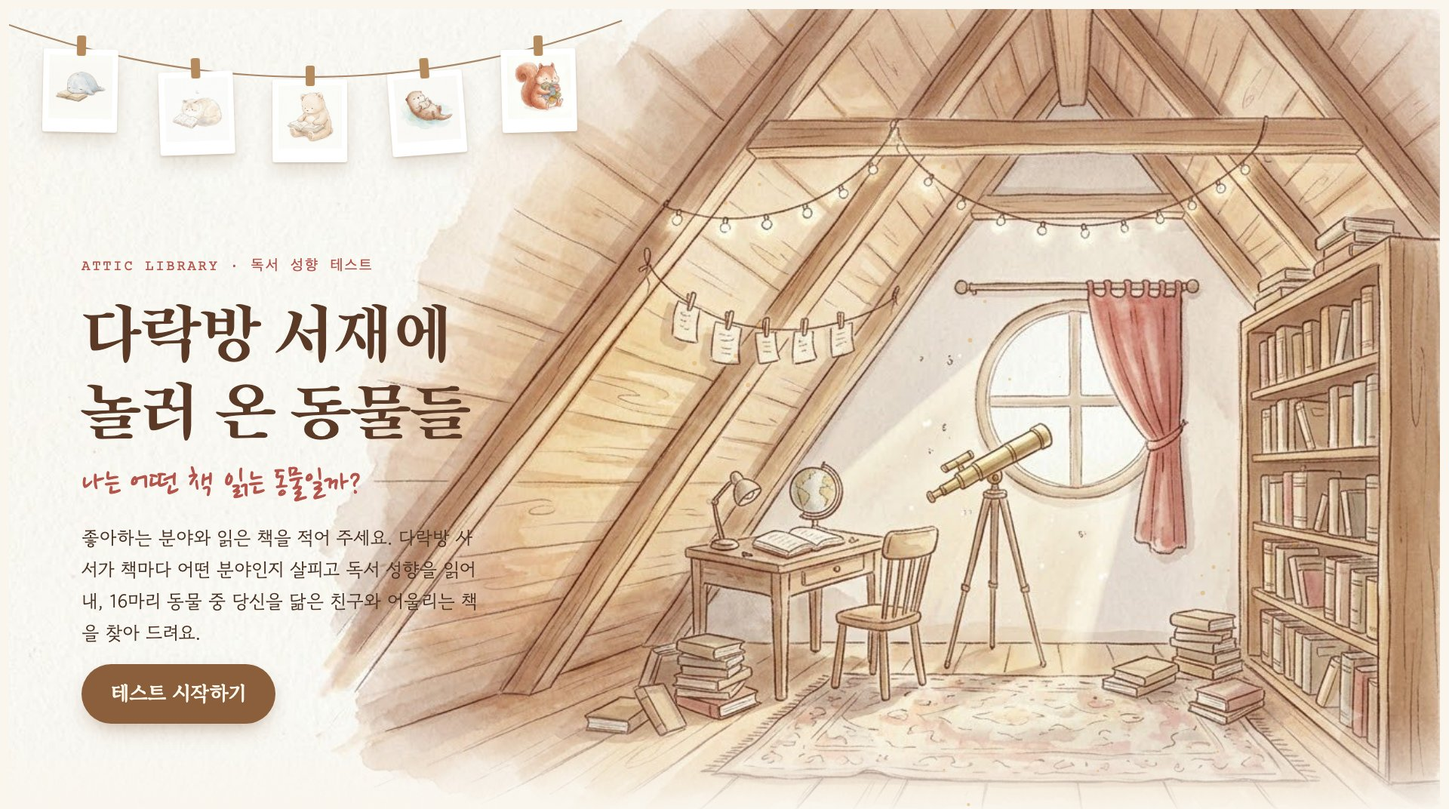
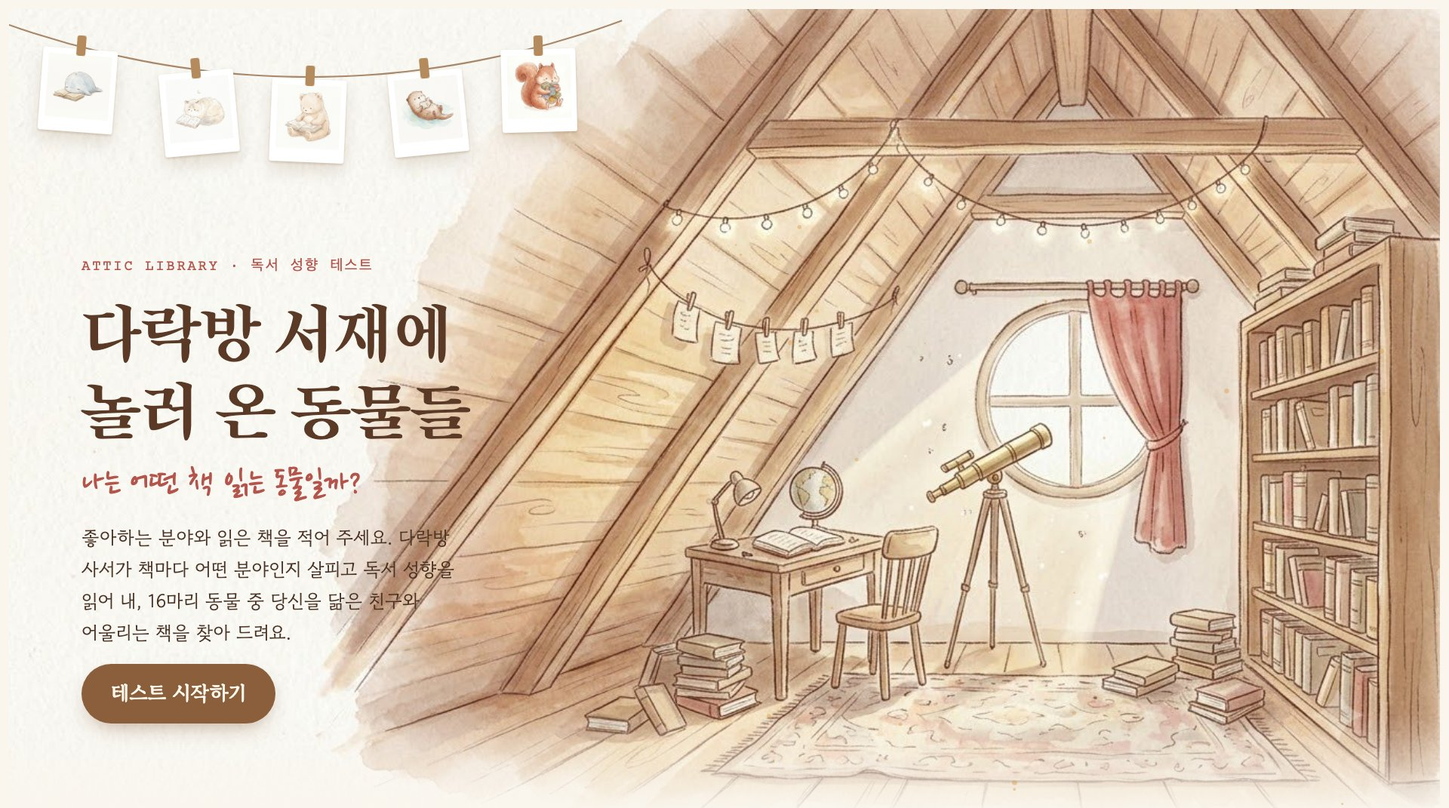
Update the deck for the shelf and the consultation room
Add slides for the neighbors' bookshelf (reads the live Google Sheet when
presented) and for the two entrances: the free site and the Claude
reading consultation room. Refresh the screen captures, the flow diagram,
the architecture diagram, and the timeline, plan, limits and closing text.

diff --git a/slides/index.html b/slides/index.html
@@ -122,19 +122,20 @@
 <!-- 7 이용 흐름 -->
 <section class="slide" data-anim="flow">
   <p class="eyebrow">이용 흐름</p>
-  <h2>세 가지를 적으면, 여섯 가지를 돌려받습니다</h2>
+  <h2>세 가지를 적으면, 일곱 가지를 돌려받습니다</h2>
   <svg class="flow" viewBox="0 0 1664 640" aria-label="입력 3가지가 사서 분석과 점수 계산을 거쳐 결과 6가지가 되는 흐름도">
     <g class="links">
       <path d="M330 110 C420 110 420 320 520 320"/>
       <path d="M330 320 L520 320"/>
       <path d="M330 530 C420 530 420 320 520 320"/>
       <path d="M820 320 L900 320"/>
-      <path d="M1200 320 C1260 320 1260 60 1320 60"/>
-      <path d="M1200 320 C1260 320 1260 164 1320 164"/>
-      <path d="M1200 320 C1260 320 1260 268 1320 268"/>
-      <path d="M1200 320 C1260 320 1260 372 1320 372"/>
-      <path d="M1200 320 C1260 320 1260 476 1320 476"/>
-      <path d="M1200 320 C1260 320 1260 580 1320 580"/>
+      <path d="M1200 320 C1260 320 1260 56 1320 56"/>
+      <path d="M1200 320 C1260 320 1260 144 1320 144"/>
+      <path d="M1200 320 C1260 320 1260 232 1320 232"/>
+      <path d="M1200 320 C1260 320 1260 320 1320 320"/>
+      <path d="M1200 320 C1260 320 1260 408 1320 408"/>
+      <path d="M1200 320 C1260 320 1260 496 1320 496"/>
+      <path d="M1200 320 C1260 320 1260 584 1320 584"/>
     </g>
   </svg>
   <div class="flow-boxes">
@@ -143,12 +144,13 @@
     <div class="fb in" style="left:0;top:530px">읽는 습관<small>질문 7개</small></div>
     <div class="fb core" style="left:520px;top:320px">Claude 사서<small>책 찾기 · 분야 · 성향</small></div>
     <div class="fb core" style="left:900px;top:320px">4축 점수 계산<small>16유형 중 하나</small></div>
-    <div class="fb out" style="left:1320px;top:60px">동물 카드</div>
-    <div class="fb out" style="left:1320px;top:164px">성향 분포</div>
-    <div class="fb out" style="left:1320px;top:268px">내 책 목록카드</div>
-    <div class="fb out" style="left:1320px;top:372px">맞춤 추천 4권</div>
-    <div class="fb out" style="left:1320px;top:476px">이웃 친구 2마리</div>
-    <div class="fb out" style="left:1320px;top:580px">행운의 독서템</div>
+    <div class="fb out" style="left:1320px;top:56px">동물 카드</div>
+    <div class="fb out" style="left:1320px;top:144px">성향 분포</div>
+    <div class="fb out" style="left:1320px;top:232px">내 책 목록카드</div>
+    <div class="fb out" style="left:1320px;top:320px">맞춤 추천</div>
+    <div class="fb out" style="left:1320px;top:408px">이웃 친구 2마리</div>
+    <div class="fb out new" style="left:1320px;top:496px">이웃들의 책장</div>
+    <div class="fb out" style="left:1320px;top:584px">행운의 독서템</div>
   </div>
 </section>
 
@@ -204,23 +206,47 @@
   <div class="shots">
     <div class="shot-main paper">
       <img class="shot on" src="assets/shots/shot-hero.jpg" alt="첫 화면: 수채화 다락방과 제목">
-      <img class="shot" src="assets/shots/shot-form.jpg" alt="입력 화면: 분야 선택과 도서명·저자 입력">
-      <img class="shot" src="assets/shots/shot-result.jpg" alt="결과 화면: 고래 카드와 성향 분포">
-      <img class="shot" src="assets/shots/shot-friends.jpg" alt="결과 화면: 이웃 친구와 행운의 독서템">
+      <img class="shot" src="assets/shots/shot-form.jpg" alt="입력 화면: 도서명과 저자를 나눠 적는 칸">
+      <img class="shot" src="assets/shots/shot-result.jpg" alt="결과 화면: 정밀 분석 안내와 고래 카드">
+      <img class="shot" src="assets/shots/shot-friends.jpg" alt="결과 화면: 취향이 맞는 친구와 정반대 친구">
+      <img class="shot" src="assets/shots/shot-shelf.jpg" alt="결과 화면: 다락방 이웃들의 책장">
+      <img class="shot" src="assets/shots/shot-consult.jpg" alt="다락방 독서 상담실: 별점과 감상을 적는 화면">
     </div>
     <ol class="shot-list">
       <li class="on"><b>첫 화면</b>수채화 다락방, 빨랫줄의 동물들</li>
-      <li><b>입력</b>분야, 도서명·저자, 습관 질문</li>
-      <li><b>결과</b>동물 카드와 네 축의 성향 분포</li>
-      <li><b>더 보기</b>이웃 친구, 맞춤 추천, 행운의 독서템</li>
+      <li><b>입력</b>분야, 도서명·저자, 습관 질문, 책장 동의</li>
+      <li><b>결과</b>동물 카드, 정밀 분석 안내</li>
+      <li><b>이웃 친구</b>잘 맞는 친구와 정반대 친구의 책</li>
+      <li><b>이웃들의 책장</b>같은 동물, 다른 동물이 꽂은 책</li>
+      <li><b>독서 상담실</b>내 Claude로 받는 깊은 상담</li>
     </ol>
+  </div>
+</section>
+
+<!-- 다락방 이웃들의 책장 -->
+<section class="slide" data-anim="shelf">
+  <p class="eyebrow">새 기능 · 이용자 데이터베이스</p>
+  <h2>다락방 이웃들의 책장</h2>
+  <div class="sh-grid">
+    <div class="sh-steps">
+      <div class="sh-step paper"><b>1</b><div><h3>책장에 꽂기</h3><p>테스트를 마칠 때 동의하면 내가 적은 책을 보탭니다.</p></div></div>
+      <div class="sh-step paper"><b>2</b><div><h3>구글 시트에 익명 저장</h3><p>도서명, 저자, 동물 유형만 한 줄씩. 이름과 이메일은 받지 않습니다.</p></div></div>
+      <div class="sh-step paper"><b>3</b><div><h3>동물별 책장으로</h3><p>같은 동물, 다른 동물이 많이 꽂은 책 순서로 책등을 세웁니다.</p></div></div>
+      <p class="sh-note">부적절한 제목은 시트에서 그 줄을 지우면 1분 안에 사라집니다.</p>
+    </div>
+    <div class="sh-live paper pin">
+      <p class="sh-live-h"><span class="live-dot"></span>지금 이 순간의 책장 <small id="shelfStamp">구글 시트에서 불러오는 중</small></p>
+      <p class="sh-count"><b class="sh-num" id="shPeople">–</b>명이 <b class="sh-num" id="shBooks">–</b>권을 꽂았어요</p>
+      <div class="sh-shelves" id="shShelves"></div>
+      <img class="sh-fallback" id="shFallback" src="assets/shots/shot-shelf.jpg" alt="서비스의 이웃 책장 화면" hidden>
+    </div>
   </div>
 </section>
 
 <!-- 13 만든 과정 -->
 <section class="slide" data-anim="timeline">
   <p class="eyebrow">바이브 코딩으로 만든 과정</p>
-  <h2>대화로 만들고, 10번 고쳐 배포했습니다</h2>
+  <h2>처음 76분 동안, 10번 고쳐 배포했습니다</h2>
   <div class="chart-frame line"><img src="assets/charts/timeline.svg" alt="13시 48분 시작부터 15시 3분 v10까지 배포 10번의 타임라인"><i class="wipe"></i></div>
   <div class="row4 kpis">
     <div class="kpi"><b class="count" data-count="76">76</b><span>분, 시작부터 마지막 배포까지</span></div>
@@ -228,7 +254,8 @@
     <div class="kpi"><b class="count" data-count="35">35</b><span>장, Flow로 그린 그림</span></div>
     <div class="kpi"><b class="count" data-count="18">18</b><span>장, 최종 사용한 그림</span></div>
   </div>
-  <p class="tools">도구 · <b>Claude Code</b> 대화로 코딩 · <b>Google Flow</b> 일러스트 · <b>Claude</b> 페이지 속 사서</p>
+  <p class="tools">도구 · <b>Claude Code</b> 대화로 코딩 · <b>Google Flow</b> 일러스트 · <b>Claude</b> 페이지 속 사서 · <b>구글 시트</b> 책장 저장</p>
+  <p class="tools after">그 뒤에 더한 것 · 발표 슬라이드 · 다락방 이웃들의 책장 · 다락방 독서 상담실</p>
 </section>
 
 <!-- 14 외부 데이터 -->
@@ -265,18 +292,40 @@
 <!-- 16 기술 구조 -->
 <section class="slide" data-anim="arch">
   <p class="eyebrow">기술 구조</p>
-  <h2>서버 없는 한 장짜리 웹</h2>
+  <h2>서버 없이, 무료로 굴러가는 구조</h2>
   <svg class="arch-lines" viewBox="0 0 1664 600" aria-hidden="true">
-    <path d="M560 300 L760 300"/><path d="M1100 250 L1300 130"/><path d="M1100 350 L1300 470"/><path d="M330 120 L330 210"/>
+    <path d="M320 265 C370 265 370 110 420 110"/><path d="M320 265 C370 265 370 420 420 420"/>
+    <path d="M860 110 L1000 110"/><path d="M860 420 L1000 420"/><path class="v" d="M640 172 L640 358"/>
   </svg>
+  <p class="arch-lab" style="left:664px;top:588px">상담실 열기</p>
   <div class="arch">
-    <div class="ab user" style="left:120px;top:300px">이용자 브라우저<small>한 장짜리 HTML · 그림 18장 내장</small></div>
-    <div class="ab flowimg" style="left:170px;top:60px">Google Flow<small>동물·다락방 그림</small></div>
-    <div class="ab claude" style="left:760px;top:300px">Claude 사서<small>페이지가 직접 질문 · 책 식별 · 분야 · 성향 · 추천</small></div>
-    <div class="ab local" style="left:1300px;top:130px">내장 도서 71권<small>Claude를 못 쓸 때</small></div>
-    <div class="ab nl" style="left:1300px;top:470px">국립중앙도서관 검색<small>추천 도서 링크</small></div>
+    <div class="ab user" style="left:0;top:265px">이용자<small>휴대폰·컴퓨터 브라우저</small></div>
+    <div class="ab pages" style="left:420px;top:110px">무료 체험 페이지<small>GitHub Pages · 한 장짜리 HTML</small></div>
+    <div class="ab claudepg" style="left:420px;top:420px">다락방 독서 상담실<small>claude.ai · 별점·습관·취향까지 받는 페이지</small></div>
+    <div class="ab sheet" style="left:1000px;top:110px">구글 시트 책장 DB<small>Apps Script 웹 앱 · 익명 저장과 동물별 집계</small></div>
+    <div class="ab claude" style="left:1000px;top:420px">Claude 사서<small>방문자 본인 계정 · 상담 기록과 추천 작성</small></div>
   </div>
-  <div class="chips-row"><span>서버 없음</span><span>데이터베이스 없음</span><span>입력 내용 저장 안 함</span><span>링크 하나로 공유</span></div>
+  <div class="chips-row"><span>별도 서버 없음</span><span>운영비 0원</span><span>이름·이메일 저장 안 함</span><span>추천 도서는 국립중앙도서관 검색으로</span></div>
+</section>
+
+<!-- 두 개의 문 -->
+<section class="slide" data-anim="doors">
+  <p class="eyebrow">서비스 구성</p>
+  <h2>가볍게 들어오는 문, 깊이 들어가는 문</h2>
+  <div class="doors">
+    <div class="door paper pin">
+      <p class="door-tag">문 1 · 누구나</p>
+      <h3>무료 체험 페이지</h3>
+      <ul><li>누구나 로그인 없이 바로</li><li>내장 도서 71권과 분야·습관으로 분석</li><li><b>다락방 이웃들의 책장</b>에 함께 꽂기</li><li>QR 코드로 공유</li></ul>
+    </div>
+    <div class="door-mid"><svg viewBox="0 0 160 80" aria-hidden="true"><path d="M8 40 H140 M122 22 L144 40 L122 58"/></svg><p>더 깊이<br>알고 싶다면</p></div>
+    <div class="door paper pin">
+      <p class="door-tag">문 2 · 내 Claude 계정</p>
+      <h3>다락방 독서 상담실</h3>
+      <ul><li>별점과 감상, 인생 책, 아쉬웠던 책까지</li><li>독서 습관과 문체·분위기 취향을 자세히</li><li>독서 초상, 4축의 근거, 열쇠말, 사서의 편지</li><li>맞춤 추천 5권과 한 달 독서 계획</li></ul>
+    </div>
+  </div>
+  <div class="why paper"><p><b>왜 나눴나요?</b> 일반 웹페이지는 방문자의 Claude 로그인을 쓸 수 없고, Claude 안의 페이지는 외부 저장소에 접속할 수 없습니다. 그래서 모두와 함께 쓰는 체험 페이지와, 나 혼자 깊이 상담받는 페이지로 역할을 나눴습니다. 상담실에 적은 내용은 저장하지 않습니다.</p><p class="next"><b>다음 단계</b> 제작자의 API 키로 상담실과 이웃 책장을 한 페이지에서 잇기 (1회 약 4~140원)</p></div>
 </section>
 
 <!-- 17 서비스 운영 -->
@@ -284,11 +333,11 @@
   <p class="eyebrow">서비스 운영 방안</p>
   <h2>링크 하나에서 도서관 프로그램까지</h2>
   <div class="road">
-    <div class="paper pin stage-c"><p class="hand mid">1단계 · 지금</p><ul><li>링크와 QR 코드로 공유</li><li>학과·도서관 SNS에 결과 문구 공유</li><li>신입생 오리엔테이션 체험 부스</li></ul></div>
+    <div class="paper pin stage-c"><p class="hand mid">1단계 · 지금</p><ul><li>링크와 QR 코드로 공유</li><li>함께 채우는 이웃 책장으로 다시 오게 하기</li><li>신입생 오리엔테이션 체험 부스</li></ul></div>
     <div class="paper pin stage-c"><p class="hand mid">2단계 · 도서관과 함께</p><ul><li>‘내 독서 동물 찾기’ 도서관 행사</li><li>동물별 추천 서가 전시</li><li>같은 동물·반대 동물 독서 모임 짝짓기</li></ul></div>
-    <div class="paper pin stage-c"><p class="hand mid">3단계 · 데이터 연결</p><ul><li>학교 도서관 소장·대출 가능 여부 표시</li><li>도서관 정보나루 대출 데이터로 추천 보강</li><li>익명 유형 통계를 큐레이션에 활용</li></ul></div>
+    <div class="paper pin stage-c"><p class="hand mid">3단계 · 데이터 연결</p><ul><li>학교 도서관 소장·대출 가능 여부 표시</li><li>이웃 책장 통계를 수서·큐레이션에 활용</li><li>상담실과 이웃 책장을 한 페이지로 잇기</li></ul></div>
   </div>
-  <div class="limits"><b>지금의 한계</b> 추천 도서는 Claude의 기억으로 고르므로 실제 소장 확인이 필요합니다 · Claude 분석은 보는 사람의 Claude 계정이 있어야 합니다 · 유형 분포의 치우침 조정</div>
+  <div class="limits"><b>지금의 한계</b> 추천 도서는 Claude의 기억으로 고르므로 실제 소장 확인이 필요합니다 · 독서 상담실은 claude.ai 로그인이 필요합니다 · 체험 페이지는 내장 71권만 알아봅니다 · 유형 분포의 치우침 조정</div>
 </section>
 
 <!-- 18 가치 -->
@@ -296,8 +345,8 @@
   <p class="eyebrow">가치</p>
   <h2>누구에게 어떤 의미가 있을까요</h2>
   <div class="row3">
-    <div class="paper pin card-v"><p class="who-t">이용자</p><h3>나를 알고, 밖을 봅니다</h3><p>내 독서 취향을 한눈에 보고, ‘정반대 친구’의 책으로 늘 보던 목록 밖의 책을 만납니다.</p></div>
-    <div class="paper pin card-v"><p class="who-t">도서관</p><h3>독자 상담을 더 많은 사람에게</h3><p>참여형 독서 프로그램과 동물별 북큐레이션으로 이용자를 서가로 이끕니다.</p></div>
+    <div class="paper pin card-v"><p class="who-t">이용자</p><h3>나를 알고, 밖을 봅니다</h3><p>내 취향을 한눈에 보고, 이웃들의 진짜 책장과 ‘정반대 친구’의 책으로 늘 보던 목록 밖의 책을 만납니다.</p></div>
+    <div class="paper pin card-v"><p class="who-t">도서관</p><h3>독자 상담을 더 많은 사람에게</h3><p>이용자가 직접 채우는 책장이 쌓이며, 동물별 북큐레이션의 근거 데이터가 됩니다.</p></div>
     <div class="paper pin card-v"><p class="who-t">문헌정보학</p><h3>전공을 체험하는 서비스</h3><p>분류, 참고면담, 독자 상담을 누구나 해 볼 수 있는 웹으로 옮겼습니다.</p></div>
   </div>
   <div class="lucky-band"><p class="hand mid">덤으로, 행운의 독서템</p><p><b class="count" data-count="20">20</b> 가지 물건 × <b class="count" data-count="20">20</b> 가지 색·무늬 × <b class="count" data-count="8">8</b> 가지 시간 = <b class="count big" data-count="3200">3,200</b> 가지 조합</p></div>
@@ -310,6 +359,7 @@
     <p class="hand huge">당신의 다락방에는<br>어떤 동물이 놀러 왔나요?</p>
     <p class="lead">지금 바로 해 보세요</p>
     <p class="url" id="siteUrl"></p>
+    <p class="url sub">독서 상담실 · claude.ai/artifact/DmqLE6gvBbLZoa9okZhq62</p>
   </div>
   <figure class="qr paper"><img src="assets/qr.svg" alt="서비스로 가는 QR 코드"><figcaption>QR로 바로 해 보기</figcaption></figure>
   <div class="end-row" id="endRow"></div>

diff --git a/slides/deck.css b/slides/deck.css
@@ -157,9 +157,9 @@ p { margin: 0; }
 .shot-main { height: 700px; padding: 14px; overflow: hidden; }
 .shot { position: absolute; left: 14px; top: 14px; width: calc(100% - 28px); height: calc(100% - 28px); object-fit: contain; object-position: top center; opacity: 0; background: var(--bg); border-radius: 4px; }
 .shot.on { opacity: 1; }
-.shot-list { list-style: none; margin: 0; padding: 0; display: grid; gap: 22px; counter-reset: s; }
-.shot-list li { counter-increment: s; padding: 22px 26px; border-radius: 8px; font-size: 27px; line-height: 1.5; color: var(--muted); border: 2px solid transparent; transition: border-color .3s, background .3s; }
-.shot-list li b { display: block; font-family: var(--display); font-size: 34px; color: var(--ink); }
+.shot-list { list-style: none; margin: 0; padding: 0; display: grid; gap: 8px; counter-reset: s; }
+.shot-list li { counter-increment: s; padding: 10px 22px; border-radius: 8px; font-size: 23px; line-height: 1.35; color: var(--muted); border: 2px solid transparent; transition: border-color .3s, background .3s; }
+.shot-list li b { display: block; font-family: var(--display); font-size: 30px; color: var(--ink); }
 .shot-list li b::before { content: counter(s) ". "; color: var(--rose); font-family: var(--type); }
 .shot-list li.on { background: var(--paper); border-color: var(--gold); }
 
@@ -200,9 +200,9 @@ p { margin: 0; }
 .tag.good { color: var(--leaf); border: 2px solid var(--leaf); }
 
 /* 16 arch */
-.arch-lines { position: absolute; left: 128px; top: 330px; width: 1664px; height: 600px; }
+.arch-lines { position: absolute; left: 128px; top: 300px; width: 1664px; height: 600px; }
 .arch-lines path { fill: none; stroke: var(--wood-lt); stroke-width: 4; stroke-dasharray: 10 10; }
-.arch { position: absolute; left: 128px; top: 330px; width: 1664px; height: 600px; }
+.arch { position: absolute; left: 128px; top: 300px; width: 1664px; height: 600px; }
 .ab { position: absolute; transform: translateY(-50%); width: 440px; padding: 24px 28px; border-radius: 12px; background: var(--paper); box-shadow: 0 16px 28px -18px var(--shadow), 0 1px 3px rgba(120, 80, 40, .14);
   font: 700 34px var(--display); }
 .ab small { display: block; font: 24px var(--body); color: var(--muted); margin-top: 6px; line-height: 1.45; }
@@ -282,3 +282,59 @@ p { margin: 0; }
 .g16 img { width: 100%; flex: 1; min-height: 0; object-fit: contain; display: block; }
 .g16 figcaption { font-family: var(--hand); font-size: 34px; line-height: 1; padding: 6px 0 8px; color: var(--ink); white-space: nowrap; display: flex; align-items: baseline; gap: 8px; }
 .g16 small { font: 16px var(--type); letter-spacing: .1em; color: var(--muted); }
+
+/* revision: flow highlight, timeline note */
+.fb.out { font-size: 26px; padding: 10px 22px; }
+.fb.out.new { border-left-color: var(--gold); background: #FFF6E3; }
+.tools.after { margin-top: 10px; color: var(--rose); }
+
+/* neighbors' shelf slide */
+.sh-grid { display: grid; grid-template-columns: 640px 1fr; gap: 48px; align-items: start; }
+.sh-steps { display: grid; gap: 20px; }
+.sh-step { display: grid; grid-template-columns: 64px 1fr; gap: 22px; align-items: center; padding: 24px 28px; }
+.sh-step > b { width: 64px; height: 64px; border-radius: 50%; display: grid; place-items: center; background: var(--wood); color: #FFF8EC; font: 700 32px var(--display); }
+.sh-step h3 { font-size: 34px; }
+.sh-step p { font-size: 26px; line-height: 1.5; color: var(--muted); margin-top: 4px; }
+.sh-note { font-size: 24px; color: var(--muted); padding-left: 8px; }
+.sh-live { padding: 54px 36px 30px; min-height: 640px; display: flex; flex-direction: column; gap: 16px; }
+.sh-live-h { display: flex; align-items: center; gap: 12px; font: 700 26px var(--display); }
+.sh-live-h small { font: 20px var(--type); color: var(--muted); margin-left: auto; }
+.live-dot { width: 14px; height: 14px; border-radius: 50%; background: #D9534F; box-shadow: 0 0 0 0 rgba(217, 83, 79, .5); }
+.sh-count { font-size: 30px; color: var(--muted); }
+.sh-num { font: 700 64px var(--display); color: var(--wood); margin: 0 6px; font-variant-numeric: tabular-nums; }
+.sh-shelves { display: grid; gap: 18px; }
+.mini-shelf { display: grid; grid-template-columns: 96px 1fr; gap: 18px; align-items: end; }
+.mini-shelf .who { display: flex; flex-direction: column; align-items: center; gap: 4px; font-family: var(--hand); font-size: 24px; line-height: 1; text-align: center; }
+.mini-shelf .who img { width: 80px; height: 80px; border-radius: 50%; object-fit: cover; background: #fff; box-shadow: 0 6px 12px -6px var(--shadow); }
+.mini-shelf .row { display: flex; align-items: flex-end; gap: 6px; height: 150px; border-bottom: 12px solid #A8794F; padding: 0 8px; overflow: hidden; }
+.dspine { flex: none; width: 46px; border-radius: 3px 3px 0 0; color: #FFF8EC; display: flex; flex-direction: column; align-items: center; padding: 8px 2px 6px; gap: 4px; transform-origin: bottom center;
+  box-shadow: inset -4px 0 0 rgba(0, 0, 0, .12), inset 2px 0 0 rgba(255, 255, 255, .18); overflow: hidden; }
+.dspine i { font: 700 14px var(--type); font-style: normal; background: rgba(255, 248, 236, .92); color: var(--ink); border-radius: 999px; padding: 0 6px; }
+.dspine span { writing-mode: vertical-rl; font: 700 18px/1.1 var(--display); overflow: hidden; flex: 1; min-height: 0; }
+.sh-fallback { width: 100%; border-radius: 4px; }
+
+/* two doors slide */
+.doors { display: grid; grid-template-columns: 1fr 200px 1fr; gap: 24px; align-items: center; }
+.door { padding: 56px 40px 34px; }
+.door-tag { font: 700 24px var(--type); letter-spacing: .08em; color: var(--rose); }
+.door h3 { font-size: 42px; margin: 8px 0 18px; }
+.door ul { margin: 0; padding-left: 30px; display: grid; gap: 10px; font-size: 29px; line-height: 1.45; }
+.door li::marker { color: var(--gold); }
+.door-mid { text-align: center; }
+.door-mid svg { width: 160px; height: 80px; }
+.door-mid path { fill: none; stroke: var(--wood-lt); stroke-width: 6; stroke-linecap: round; stroke-linejoin: round; }
+.door-mid p { font-family: var(--hand); font-size: 32px; color: var(--rose); line-height: 1.15; }
+.why { margin-top: 40px; padding: 26px 34px; display: grid; gap: 10px; font-size: 27px; line-height: 1.55; color: var(--muted); }
+.why b { color: var(--ink); margin-right: 8px; }
+.why .next b { color: var(--rose); }
+
+/* architecture revision */
+.ab { width: 440px; }
+.ab.user { width: 320px; border-top: 8px solid var(--gold); }
+.ab.pages { border-top: 8px solid var(--leaf); }
+.ab.claudepg { border-top: 8px solid var(--blue); }
+.ab.sheet { border-top: 8px solid #3E8E5A; }
+.ab.claude { width: 440px; }
+.arch-lines path.v { stroke: var(--rose); }
+.arch-lab { position: absolute; z-index: 2; font-family: var(--hand); font-size: 30px; color: var(--rose); background: var(--bg); padding: 0 6px; }
+.url.sub { font-size: 24px; color: var(--muted); }

diff --git a/slides/deck.js b/slides/deck.js
@@ -39,6 +39,43 @@
     motes.appendChild(d);
   }
 
+  // ---------- live neighbors' shelf (real data from the Google Sheet) ----------
+  var SHELF_URL = 'https://script.google.com/macros/s/AKfycbzLpXGOcfBpaXwhViI9_y3U59CfElvhccQbQa8CuvkFa3bhlubiuEY7GSo5jcVDklsf/exec';
+  var NAMES = {}; TYPES.forEach(function (t) { NAMES[t[0]] = t[1]; });
+  var SPC = ['#C98A7E', '#8FA37A', '#D9B074', '#8AA1B4', '#B49A80', '#CFA0A6'];
+  var deckShelf = null, deckShelfFailed = false;
+  function escH(x) { return String(x).replace(/[&<>"']/g, function (m) { return { '&': '&amp;', '<': '&lt;', '>': '&gt;', '"': '&quot;', "'": '&#39;' }[m]; }); }
+  function drawDeckShelf(s, animate) {
+    if (!s) s = document.querySelector('[data-anim="shelf"]');
+    var box = document.getElementById('shShelves'), fb = document.getElementById('shFallback'), stamp = document.getElementById('shelfStamp');
+    if (!deckShelf) { if (deckShelfFailed) { fb.hidden = false; stamp.textContent = '연결이 안 되어 서비스 화면으로 대신 보여 드려요'; } return; }
+    var d = deckShelf, codes = Object.keys(d.shelves).sort(function (a, b) {
+      var n = function (c) { return d.shelves[c].reduce(function (x, y) { return x + y.n; }, 0); }; return n(b) - n(a);
+    }).slice(0, 3);
+    var t = new Date(); stamp.textContent = (t.getMonth() + 1) + '월 ' + t.getDate() + '일 ' + t.getHours() + ':' + String(t.getMinutes()).padStart(2, '0') + ' 기준';
+    document.getElementById('shPeople').textContent = d.people;
+    document.getElementById('shBooks').textContent = d.books;
+    box.innerHTML = codes.length ? codes.map(function (c) {
+      var list = d.shelves[c].slice(0, 9), max = list[0].n;
+      return '<div class="mini-shelf"><div class="who"><img src="assets/img/' + c + '.jpg" alt="">' + escH(NAMES[c] || c).split(' ').slice(-1)[0] + '</div><div class="row">' +
+        list.map(function (b, i) { return '<div class="dspine" style="height:' + (96 + Math.round(44 * b.n / max)) + 'px;background:' + SPC[i % 6] + '" title="' + escH(b.t) + '"><i>' + b.n + '</i><span>' + escH(b.t) + '</span></div>'; }).join('') + '</div></div>';
+    }).join('') : '<p class="sh-count">아직 비어 있어요. 오늘 첫 책을 꽂아 주세요.</p>';
+    if (animate && A) {
+      run(A({ targets: box.querySelectorAll('.dspine'), scaleY: [0, 1], opacity: [0, 1], duration: 700, delay: A.stagger(60, { start: 900 }), easing: 'easeOutBack' }));
+      ['shPeople', 'shBooks'].forEach(function (id) {
+        var el = document.getElementById(id), end = Number(el.textContent) || 0, o = { v: 0 };
+        run(A({ targets: o, v: end, duration: 1200, delay: 800, easing: 'easeOutExpo', update: function () { el.textContent = Math.round(o.v); } }));
+      });
+    }
+  }
+  var shelfReq = (window.fetch ? fetch(SHELF_URL) : Promise.reject()).then(function (r) { return r.json(); }).then(function (d) {
+    if (!d || !d.ok) throw 0; deckShelf = d;
+  }).catch(function () { deckShelfFailed = true; }).then(function () {
+    var s = document.querySelector('[data-anim="shelf"]');
+    if (s && s.classList.contains('on')) drawDeckShelf(s, !STATIC); else drawDeckShelf(s, false);
+  });
+  setTimeout(function () { if (!deckShelf && !deckShelfFailed) { deckShelfFailed = true; drawDeckShelf(null, false); } }, 8000);
+
   // ---------- scaling ----------
   function fit() {
     var s = Math.min(window.innerWidth / 1920, window.innerHeight / 1080);
@@ -127,6 +164,20 @@
       run(A({ targets: s.querySelectorAll('.pr-arrow path'), strokeDashoffset: [A.setDashOffset, 0], duration: 700, delay: t0 + 1900, easing: 'easeInOutSine' }));
       run(A({ targets: s.querySelector('.pr-final'), opacity: [0, 1], translateY: [-160, 0], rotate: [-14, 2], duration: 1400, delay: t0 + 2400, easing: 'easeOutElastic(1, .6)' }));
       run(A({ targets: s.querySelector('.pr-foot'), opacity: [0, 1], duration: 700, delay: t0 + 3000, easing: 'linear' }));
+    },
+    shelf: function (s) {
+      run(head(s));
+      run(A({ targets: s.querySelectorAll('.sh-step, .sh-note'), opacity: [0, 1], translateX: [-50, 0], duration: 700, delay: A.stagger(260, { start: 300 }), easing: 'easeOutCubic' }));
+      run(A({ targets: s.querySelector('.sh-live'), opacity: [0, 1], translateY: [40, 0], duration: 800, delay: 700, easing: 'easeOutCubic' }));
+      drawDeckShelf(s, true);
+      if (!STATIC) run(A({ targets: s.querySelector('.live-dot'), boxShadow: ['0 0 0 0 rgba(217, 83, 79, .5)', '0 0 0 14px rgba(217, 83, 79, 0)'], duration: 1400, loop: true, easing: 'easeOutQuad' }));
+    },
+    doors: function (s) {
+      run(head(s));
+      run(A({ targets: s.querySelectorAll('.door'), opacity: [0, 1], translateY: [70, 0], rotate: function (_, i) { return [i ? 3 : -3, 0]; }, duration: 900, delay: A.stagger(500, { start: 300 }), easing: 'easeOutBack' }));
+      run(A({ targets: s.querySelectorAll('.door-mid path'), strokeDashoffset: [A.setDashOffset, 0], duration: 700, delay: 900, easing: 'easeInOutSine' }));
+      run(A({ targets: s.querySelector('.door-mid p'), opacity: [0, 1], duration: 500, delay: 1300, easing: 'linear' }));
+      run(A({ targets: s.querySelector('.why'), opacity: [0, 1], translateY: [30, 0], duration: 700, delay: 1700, easing: 'easeOutCubic' }));
     },
     lis: function (s) {
       run(head(s));
@@ -314,6 +365,6 @@
   go(start ? start - 1 : 0);
   if (CHECK) {
     var ready = document.fonts && document.fonts.ready ? document.fonts.ready : Promise.resolve();
-    ready.then(function () { setTimeout(check, 1500); });
+    Promise.all([ready, shelfReq]).then(function () { setTimeout(check, 1500); });
   }
 })();

diff --git a/slides/PLAN.md b/slides/PLAN.md
@@ -49,3 +49,21 @@
 ## 배포
 - `gh repo create`로 공개 저장소를 만들고 push한 뒤 `gh api`로 Pages를 켭니다.
 - `/` = 서비스(체험판), `/slides/` = 발표 슬라이드.
+
+
+## 개정 계획 (2026-11-08, 서비스 업데이트 반영)
+
+서비스에 생긴 변화: 다락방 이웃들의 책장(구글 시트 DB), 무료 체험 페이지(GitHub Pages)와 정밀 분석 페이지(본인 Claude 계정)로 나뉜 구조, 도서명·저자 칸 분리, 쉬운 10개 분야.
+
+| 슬라이드 | 바꿀 내용 | 시각 자료 |
+|---|---|---|
+| 이용 흐름 | 결과에 ‘이웃들의 책장’ 추가 (결과 7가지) | 흐름도 선 그리기 |
+| **새: 다락방 이웃들의 책장** | 내 책 → 구글 시트에 익명 저장 → 동물별 책장. 개인정보 저장 안 함 | 3단계 흐름 + **발표 순간의 실제 책장을 시트에서 불러와 책등으로 표시**(불러오지 못하면 캡처로 대체) |
+| 서비스 화면 | 최신 화면으로 다시 캡처: 첫 화면, 입력(도서명·저자, 책장 동의), 결과와 정밀 분석 안내, 이웃 책장 | 화면 전환 애니메이션 |
+| 만든 과정 | 처음 76분 이후에 더한 것(발표 슬라이드, 이웃 책장, 본인 Claude 연결) 한 줄 추가 | 기존 타임라인 유지 |
+| 기술 구조 | 두 페이지 + 구글 시트 + Claude 사서 + 국립중앙도서관. ‘데이터베이스 없음’ 문구 삭제 | 구조도 다시 그리기, 선 애니메이션 |
+| **새: 두 개의 문** | 무료 체험(모두의 책장, 내장 71권)과 정밀 분석(본인 Claude)으로 나눈 이유, 한 페이지 통합 방안(API 키) | 두 카드 비교 |
+| 서비스 운영 방안 / 가치 / 한계 | 책장 반영, 한계 문구 갱신 | 기존 유지 |
+| 마무리 | 체험 주소 QR 유지, 정밀 분석 링크 추가 | |
+
+데이터 원칙은 그대로입니다. 책장 숫자는 발표하는 순간 시트에서 읽은 실제 값만 보여 줍니다.
